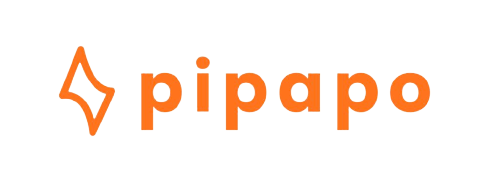
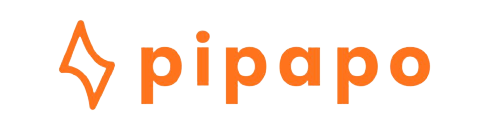
fix: change content, touchup

diff --git a/components/Landing/LandingNav.tsx b/components/Landing/LandingNav.tsx
@@ -212,7 +212,7 @@ const LandingNav = ({
 				<div className="flex items-center">
 					<img
 						src="/pipapo-negative.png"
-						className="w-60 aspect-[5/1] object-contain rounded-xl"
+						className="w-32 object-contain rounded-xl mr-10"
 						alt=""
 					/>
 					<div className="flex items-center space-x-8 font-semibold text-base text-black">
@@ -288,7 +288,7 @@ const LandingNav = ({
 				<div className="flex w-full items-center justify-between px-4 z-20 bg-white py-3">
 					<img
 						src="/Pipapo-negative.png"
-						className="w-40 aspect-[4/1] object-contain rounded-xl"
+						className="w-32 object-contain rounded-xl"
 						alt=""
 					/>
 					<Button

diff --git a/components/icons/Landing/Footer.tsx b/components/icons/Landing/Footer.tsx
@@ -71,7 +71,7 @@ const Footer = ({
 			<div className="col-span-12 lg:col-span-4 flex flex-col py-5">
 				<p className="font-semibold text-base mb-2">GET TO KNOW US</p>
 				<div className="flex items-center space-x-6 mb-6">
-					<IconInstagramWhite size={20} />
+					{/* <IconInstagramWhite size={20} /> */}
 					<a href={URL_TWITTER} target="_blank">
 						<IconTwitterWhite size={20} />
 					</a>
